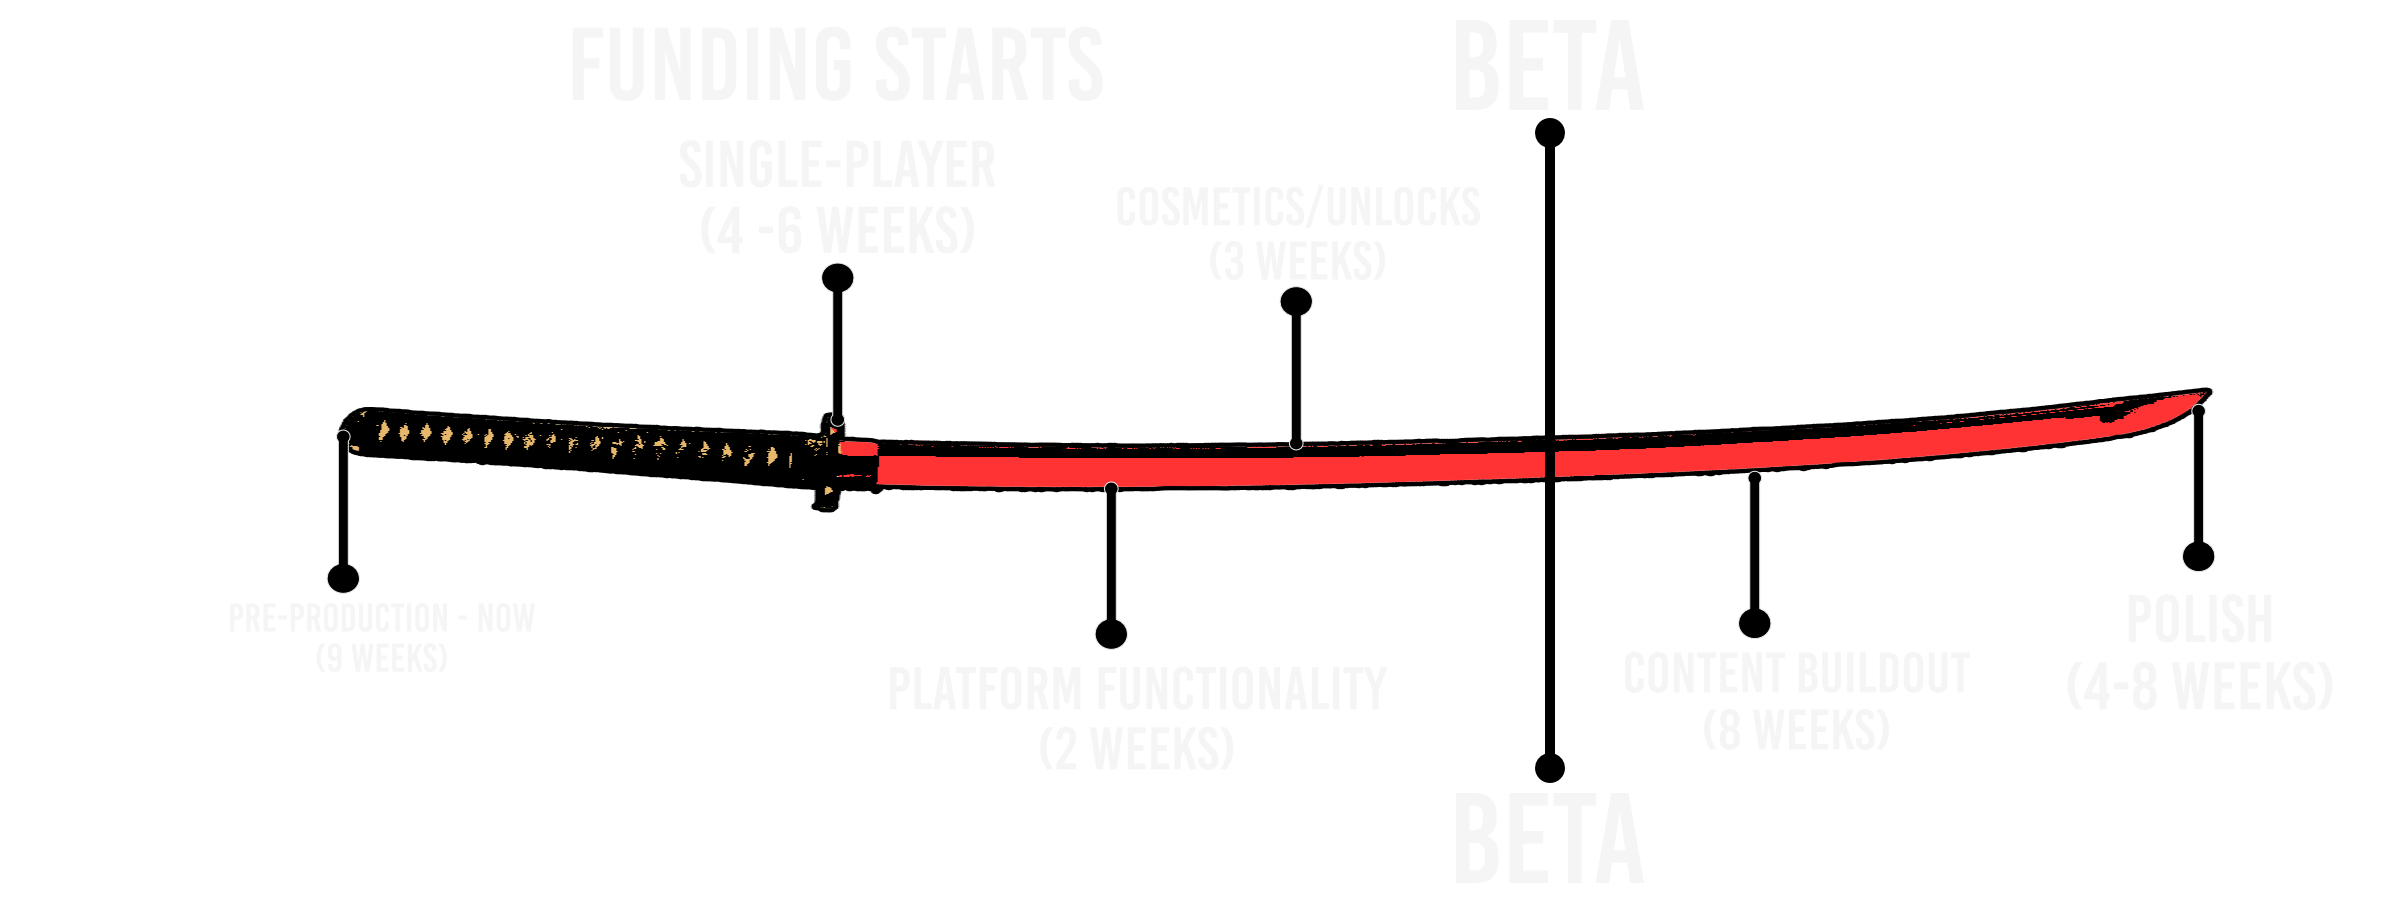
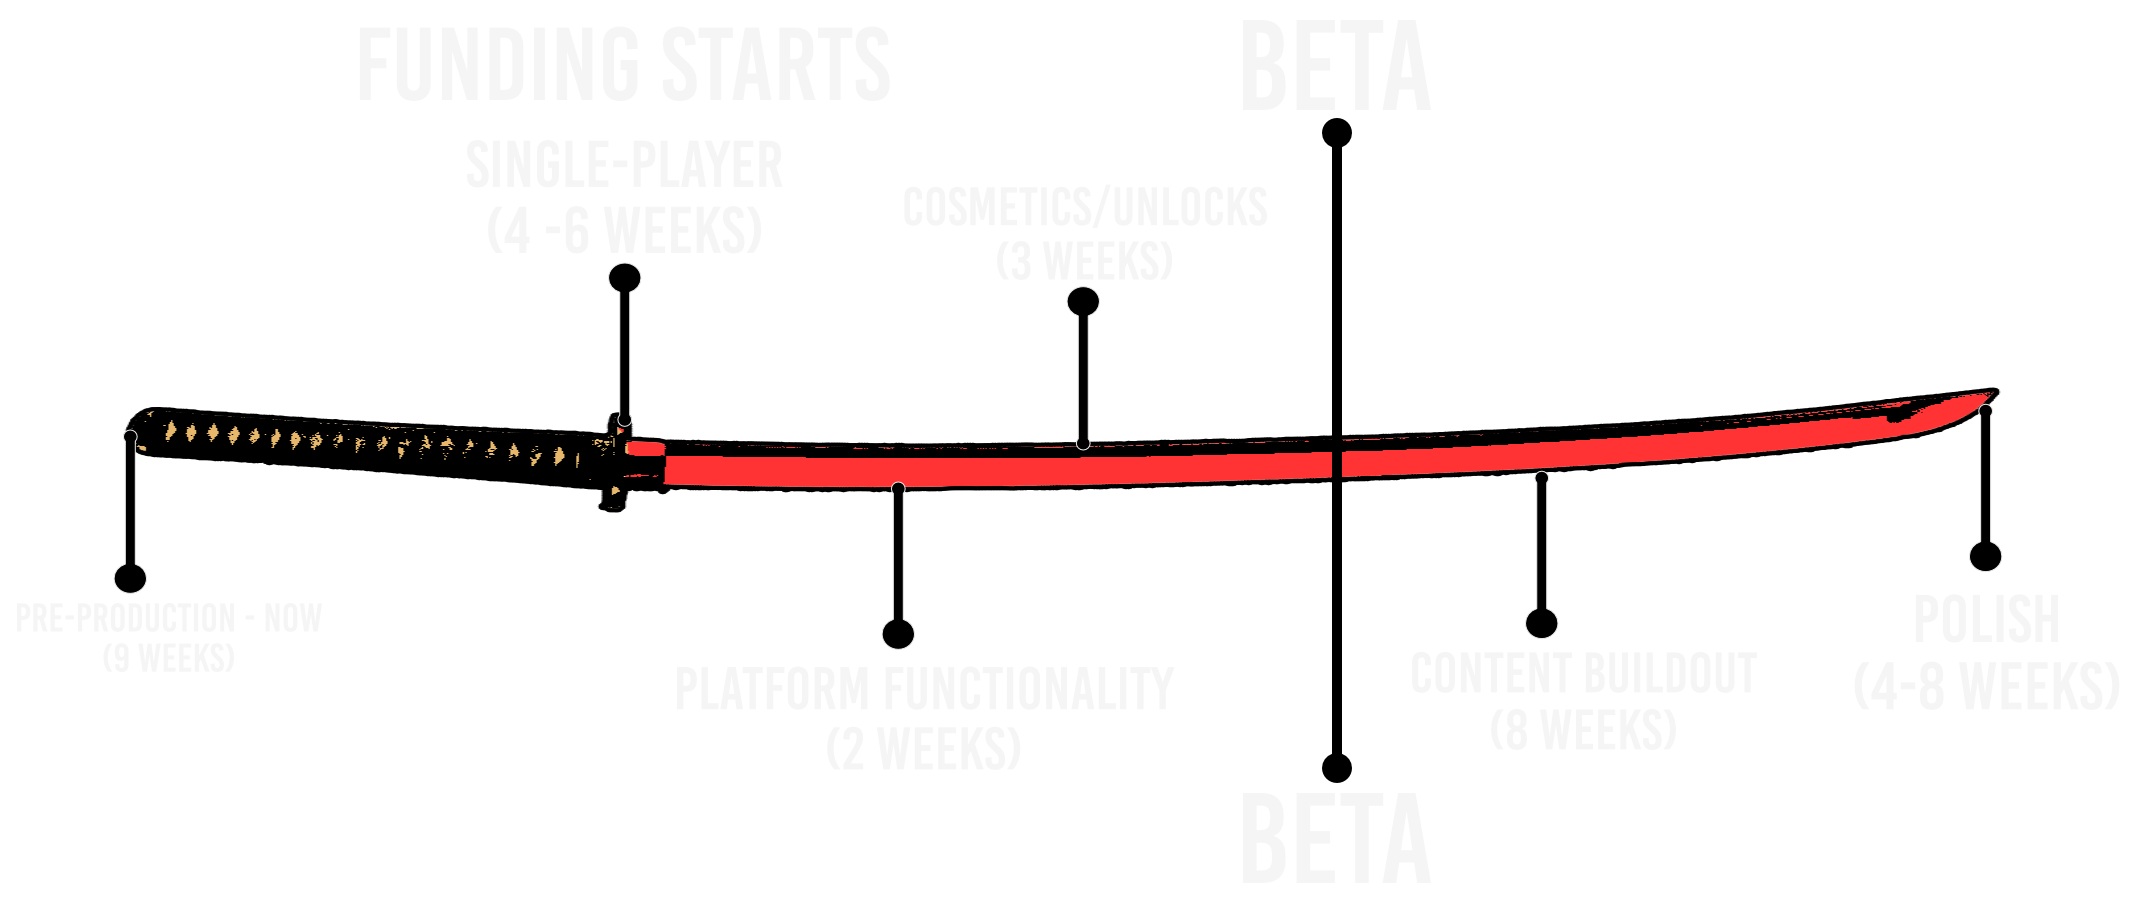
feat: roadmap slide

Changed region(s): [[0.0311, 0.1244, 0.8398, 0.8711], [0.8087, 0.4356, 0.9331, 0.6533]]

diff --git a/src/pages/index.tsx b/src/pages/index.tsx
@@ -4,14 +4,15 @@ import "twin.macro";
 import Slide from "@/styles/shared";
 import Intro from "@/slides/001-intro";
 import History from "@/slides/006-history";
+import Roadmap from "@/slides/007-roadmap";
 
 const IndexPage: NextPage = () => {
   return (
     <>
       <Slide
-        title="History & Production Status"
+        title="High Level Roadmap"
       >
-        <History />
+        <Roadmap />
       </Slide>
     </>
   );

diff --git a/src/slides/007-roadmap.tsx b/src/slides/007-roadmap.tsx
@@ -1,0 +1,13 @@
+import Image from "next/image";
+import "twin.macro";
+
+//! ----------> COMPONENTS <----------
+const Roadmap = () => {
+  return (
+    <div tw="w-full md:(pt-8) lg:(pt-10)">
+      <Image src="/images/infographics.png" alt="" width={2154} height={900} loading="eager" />
+    </div>
+  );
+};
+
+export default Roadmap;

diff --git a/tailwind.config.js b/tailwind.config.js
@@ -17,6 +17,7 @@ module.exports = {
           200: `#EA2424`,
           300: `#823333`,
         },
+        gold: `#FFA72A`,
       },
       fontSize: {
         "2xs": [`11px`, `14.3px`],
